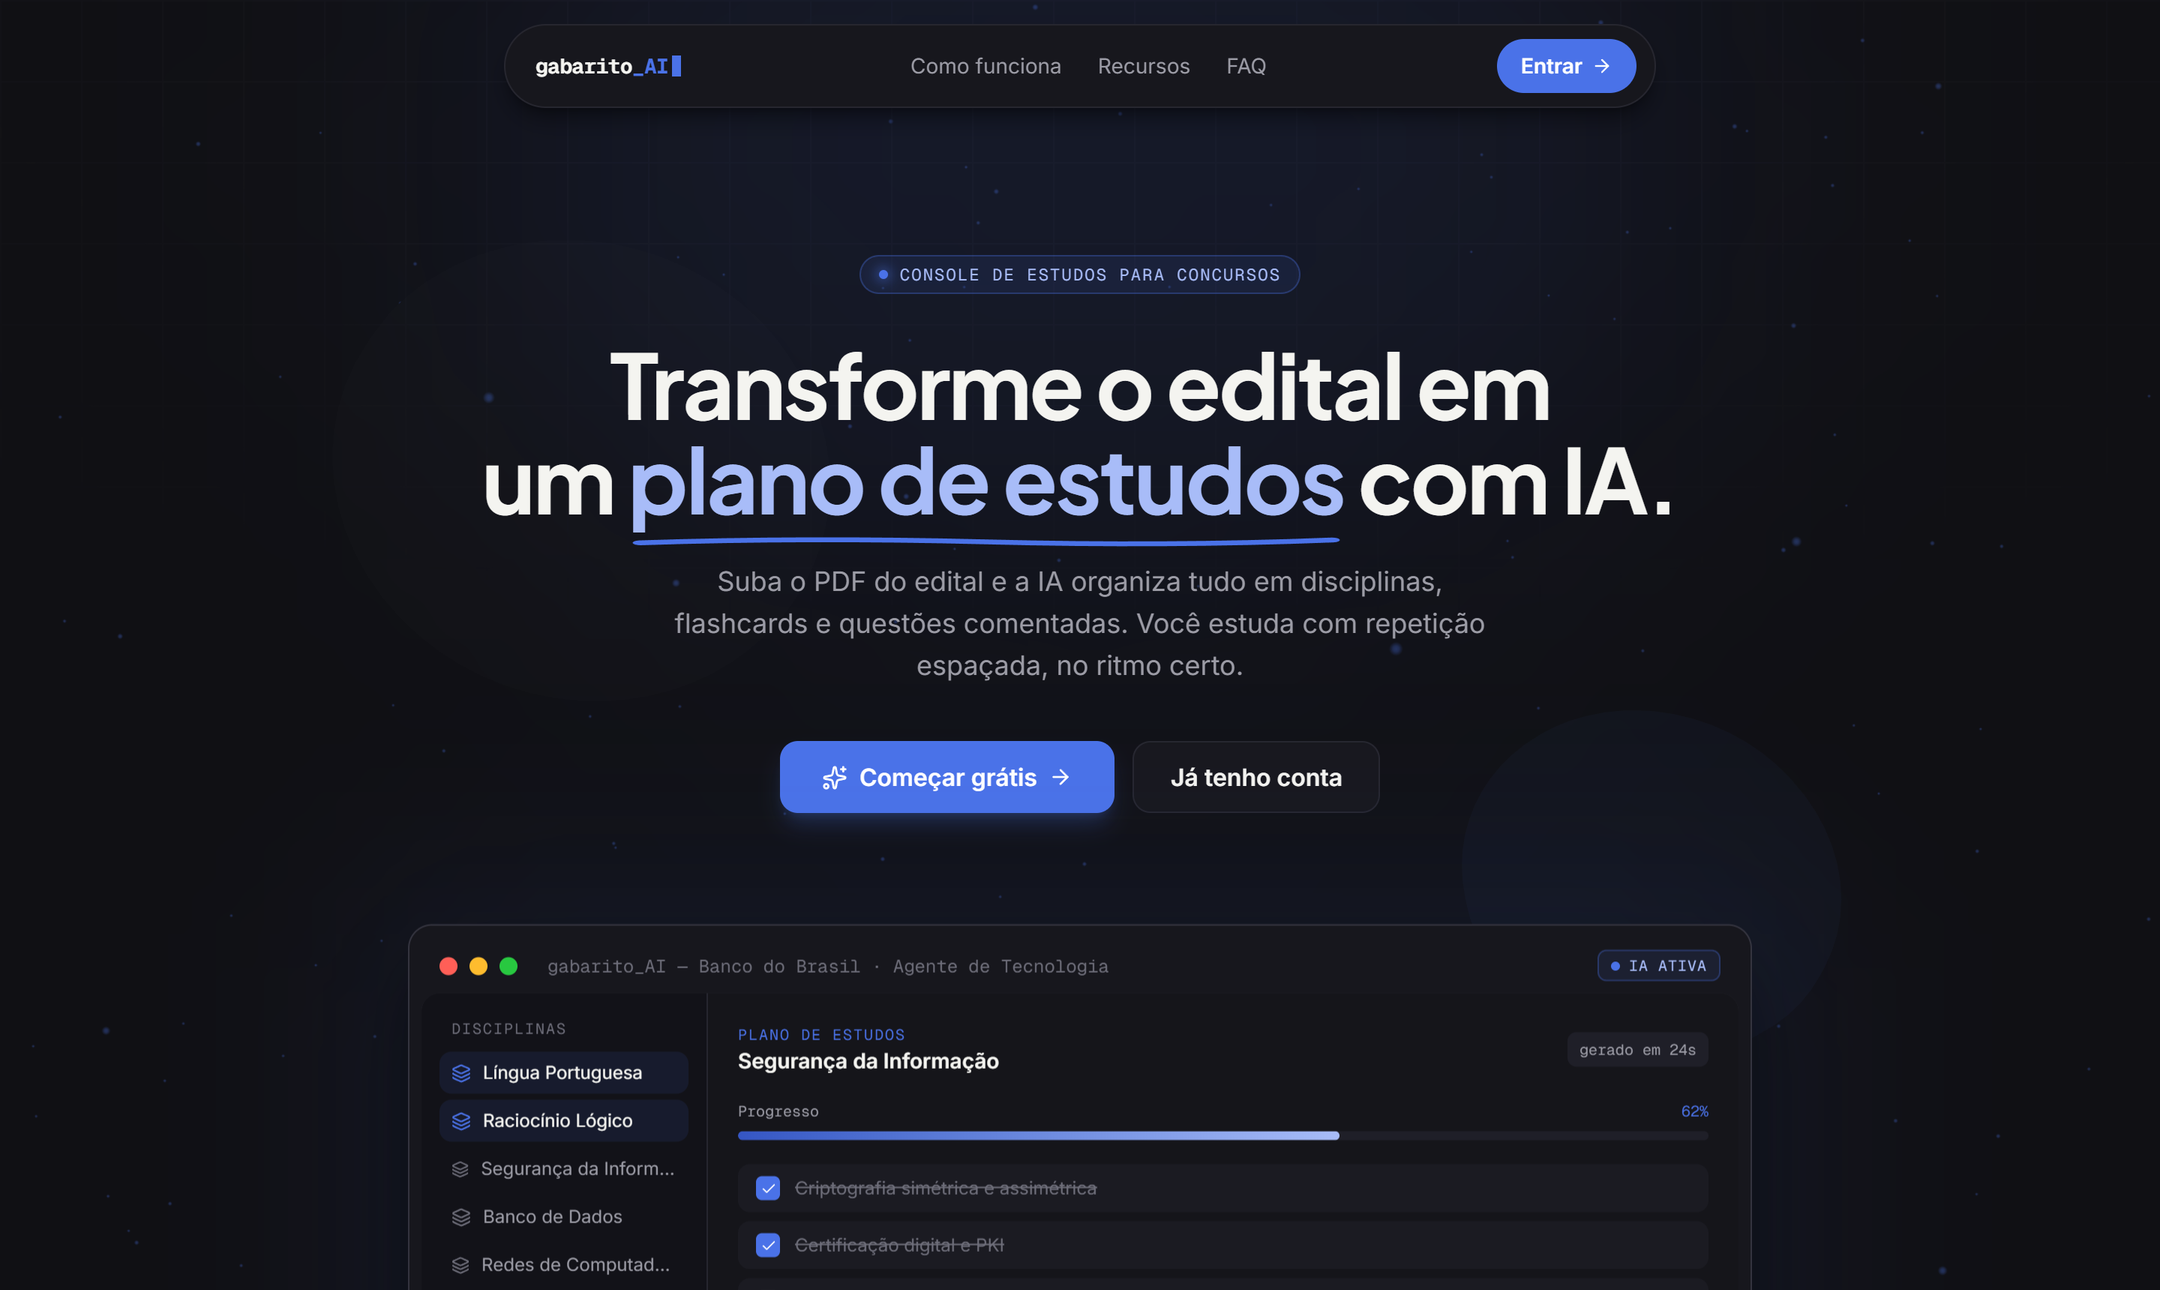
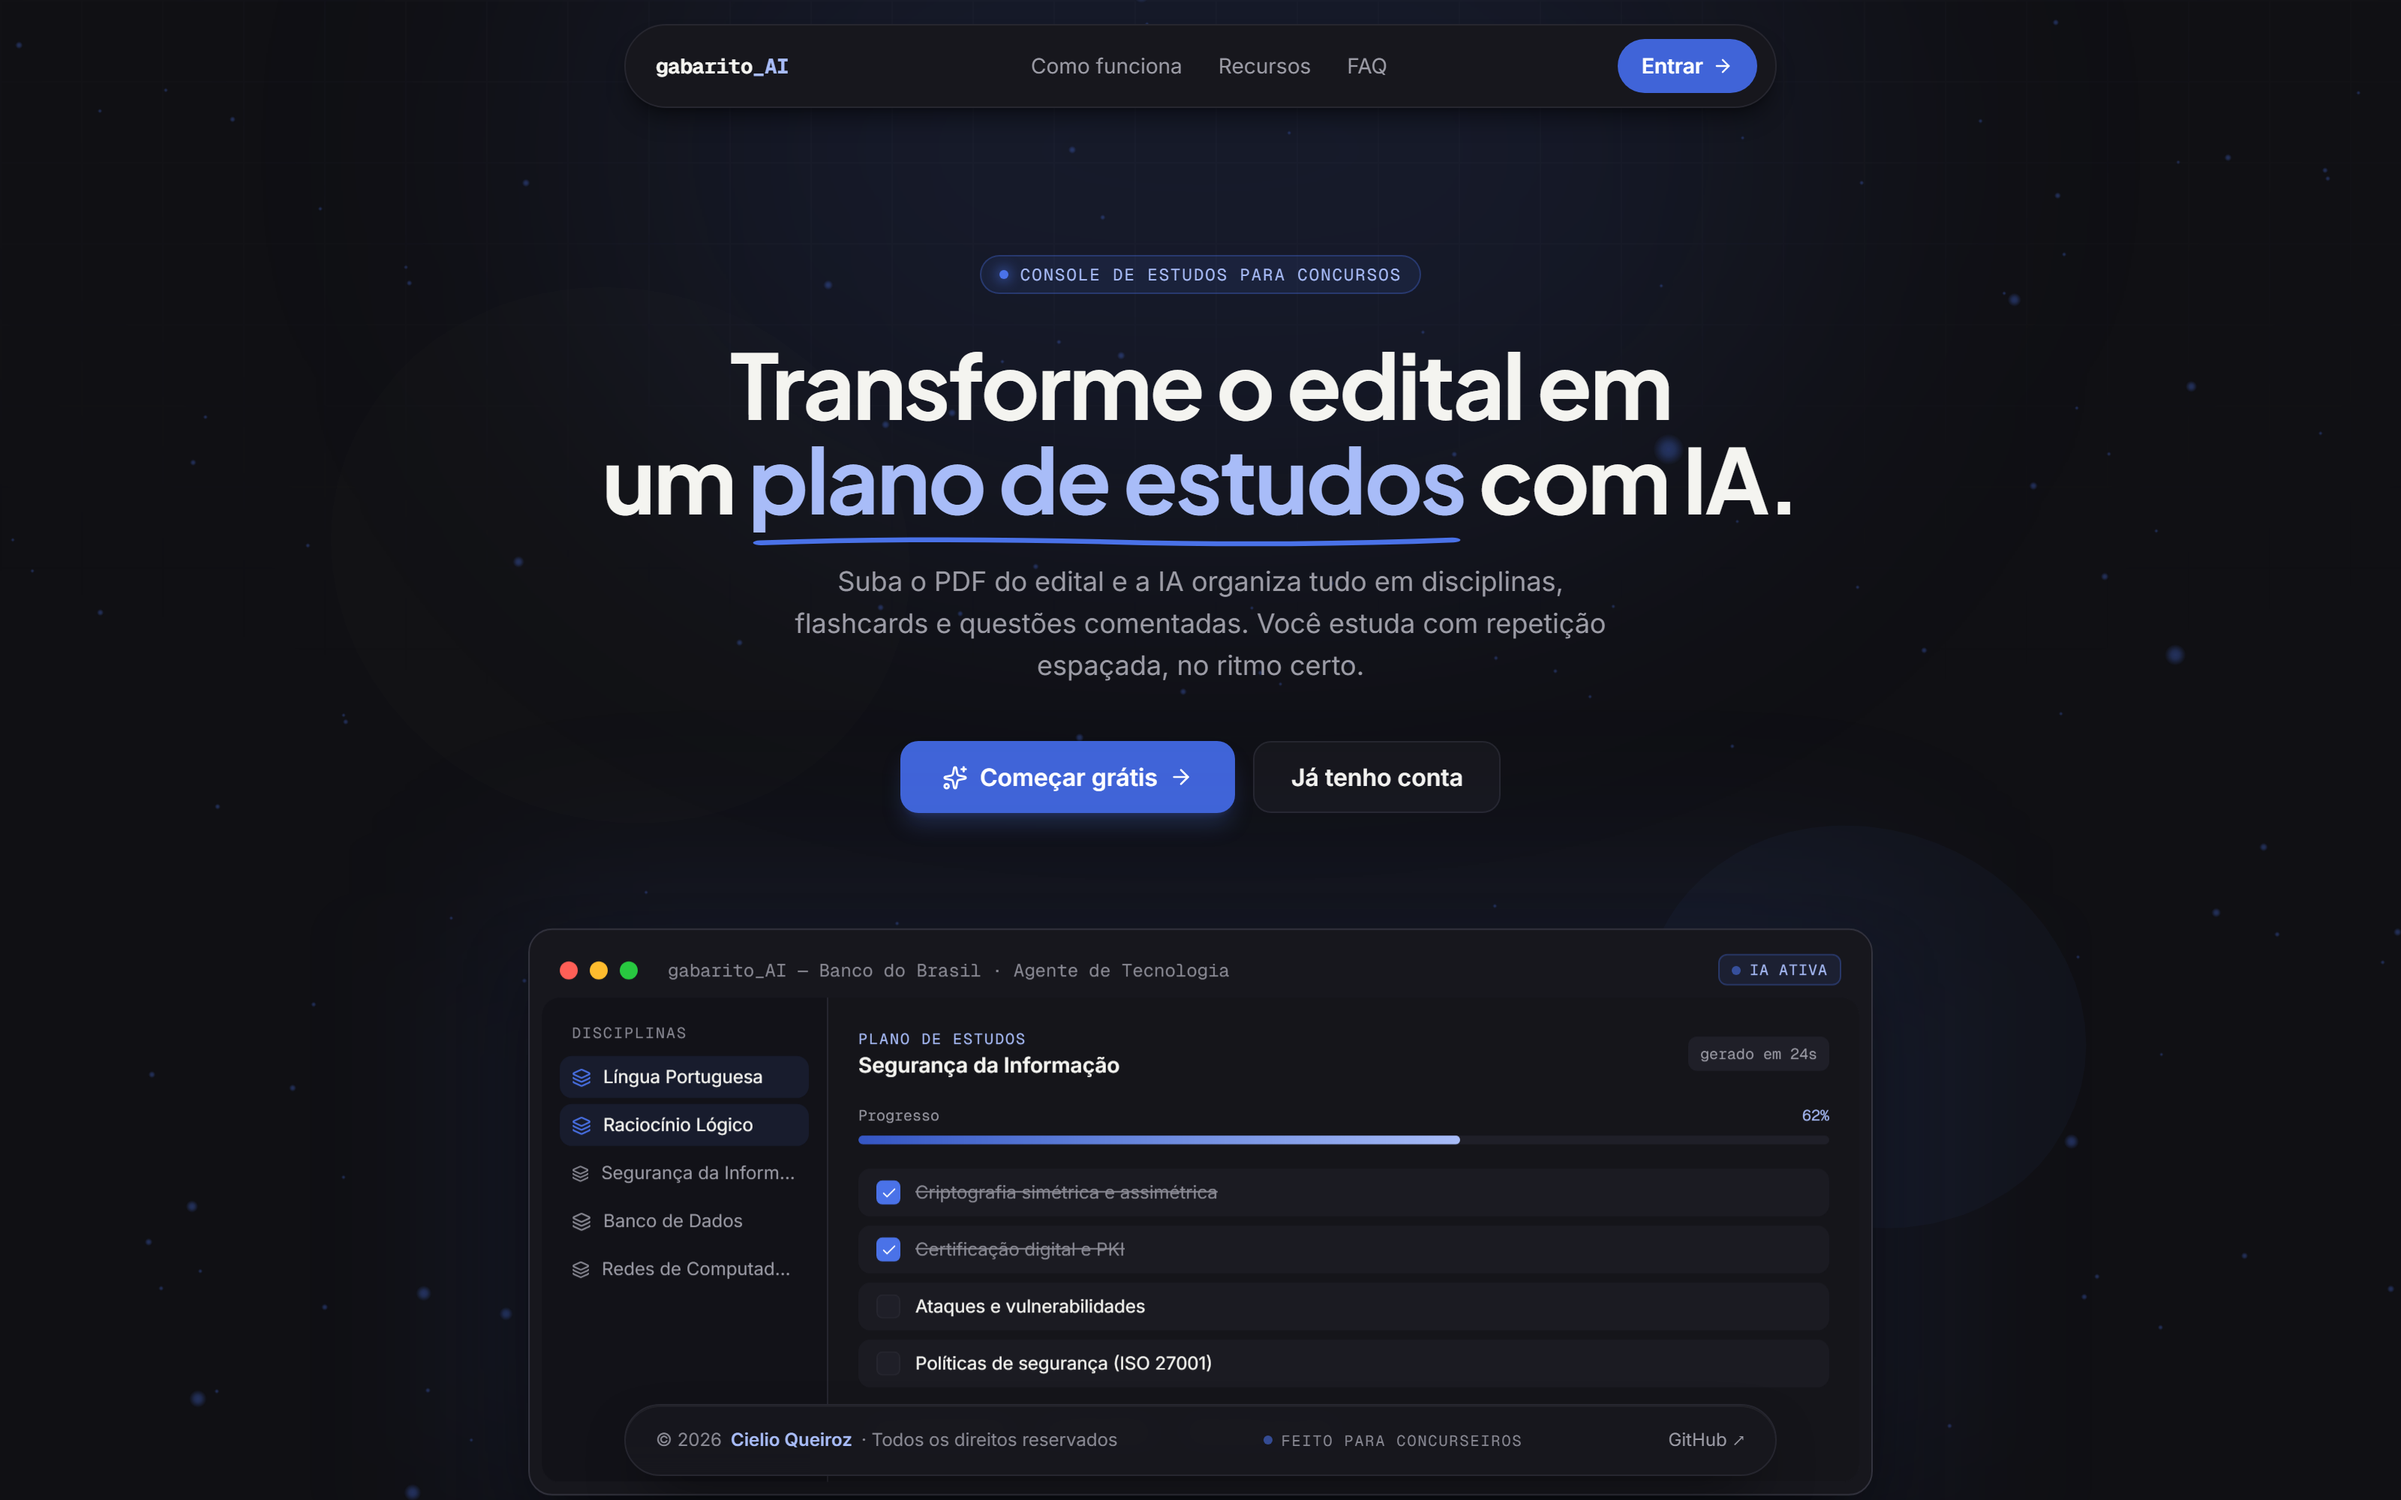
docs(readme): prints novos do app real + galeria de funcionalidades
Os prints eram de julho e mostravam o layout antigo, antes da
centralizacao e do formulario reorganizado.

Todos foram tirados do app rodando, logado, com um concurso montado de
ponta a ponta pela propria pipeline a partir do PDF de uma prova real
da FUNCAB/PRF — nenhum dado inserido a mao:

- dashboard.png        hero, agora com dados de verdade
- novo-concurso.png    PDF anexado e os campos recolhendo sozinhos
- questoes-da-prova.png badge PROVA OFICIAL, filtro por origem e peso
- plano.png            plano extraido do documento
- estatisticas.png     desempenho
- login.png            par de paineis ja limitado e centralizado
- mobile.png           390px
- landing-hero.png     regerado (/sobre)

Removido como-funciona.png, que ficou orfao e mostrava a tela antiga.

Tambem: o CSP bloqueava eval() em desenvolvimento, onde o React Refresh
precisa dele — era a origem do aviso "1 Issue" que aparecia no canto de
todo print. A excecao vale so quando NODE_ENV=development; em producao
o eval segue bloqueado.

Verificado: as 8 imagens referenciadas existem, os 4 diagramas mermaid
renderizam com mermaid-cli, e o build passa.

diff --git a/next.config.ts b/next.config.ts
@@ -3,9 +3,14 @@ import type { NextConfig } from "next";
 // Supabase project URL from env. Fallback to wildcard for local dev.
 const supabaseUrl = process.env.NEXT_PUBLIC_SUPABASE_URL ?? 'https://*.supabase.co'
 
+// O React em modo de desenvolvimento usa eval() para o React Refresh; sem esta
+// exceção o navegador acusa violação de CSP a cada carga em `next dev`. Em
+// produção o eval continua bloqueado — a exceção não vai para o build.
+const evalEmDev = process.env.NODE_ENV === 'development' ? " 'unsafe-eval'" : ''
+
 const cspDirectives = [
   "default-src 'self'",
-  "script-src 'self' 'unsafe-inline'",
+  `script-src 'self' 'unsafe-inline'${evalEmDev}`,
   "style-src 'self' 'unsafe-inline' https://fonts.googleapis.com",
   "font-src 'self' https://fonts.gstatic.com data:",
   "img-src 'self' data: blob: https:",

diff --git a/README.md b/README.md
@@ -17,9 +17,13 @@ Suba o edital em PDF → a IA monta seu plano, flashcards, questões comentadas,
 
 **[🌐 App ao vivo](https://gabarito-lyart.vercel.app)** · **[✨ Landing page](https://gabarito-lyart.vercel.app/sobre)** · **[👨💻 Autor](https://cielioqueiroz.github.io/)**
 
+<sub>Entre com <code>teste@gabarito.app</code> / <code>gabarito123</code> para ver o app com dados reais.</sub>
+
 <br/>
 
-<img src=".github/screenshots/landing-hero.png" alt="Landing do gabarito_AI — identidade Meia-noite & Azul-caneta" width="920" />
+<img src=".github/screenshots/dashboard.png" alt="Dashboard do gabarito_AI com um concurso montado a partir de uma prova real" width="920" />
+
+<sub>Dashboard real — concurso montado sozinho a partir do PDF de uma prova da FUNCAB/PRF</sub>
 
 </div>
 
@@ -57,11 +61,24 @@ Feito por um concurseiro, para concurseiros. Projeto aberto (MIT), roda inteiro 
 <div align="center">
 <table>
   <tr>
-    <td align="center"><img src=".github/screenshots/como-funciona.png" alt="Como funciona — 4 passos" width="440"/><br/><sub>Do edital ao domínio, em 4 passos</sub></td>
-    <td align="center"><img src=".github/screenshots/login.png" alt="Login com Google e GitHub" width="440"/><br/><sub>Login social + Three.js</sub></td>
+    <td align="center" width="50%"><img src=".github/screenshots/novo-concurso.png" alt="Formulário de novo concurso com o PDF anexado e os campos recolhidos" width="460"/><br/><sub><b>Zero digitação</b> — anexou o PDF, os campos somem. Nome, banca e cargo saem do documento</sub></td>
+    <td align="center" width="50%"><img src=".github/screenshots/questoes-da-prova.png" alt="Questões importadas de uma prova oficial, com filtro por origem" width="460"/><br/><sub><b>Questões reais da prova</b> — badge de origem, numeração original e peso da disciplina</sub></td>
+  </tr>
+  <tr>
+    <td align="center"><img src=".github/screenshots/plano.png" alt="Plano de estudos por disciplina" width="460"/><br/><sub>Plano extraído do documento, com progresso por disciplina</sub></td>
+    <td align="center"><img src=".github/screenshots/estatisticas.png" alt="Estatísticas de desempenho" width="460"/><br/><sub>Acertos, evolução e desempenho por disciplina</sub></td>
+  </tr>
+  <tr>
+    <td align="center"><img src=".github/screenshots/login.png" alt="Tela de login com Google e GitHub" width="460"/><br/><sub>Login social (Google · GitHub) com fundo Three.js</sub></td>
+    <td align="center"><img src=".github/screenshots/mobile.png" alt="App em tela de celular" width="200"/><br/><sub>PWA instalável, responsivo</sub></td>
+  </tr>
+  <tr>
+    <td align="center" colspan="2"><img src=".github/screenshots/landing-hero.png" alt="Landing page pública do gabarito_AI" width="700"/><br/><sub>Landing pública em <code>/sobre</code></sub></td>
   </tr>
 </table>
 </div>
+
+> Todos os prints são do app rodando, com um concurso montado de ponta a ponta pela própria pipeline a partir do PDF de uma prova real — nenhum dado foi inserido à mão.
 
 ---
 
